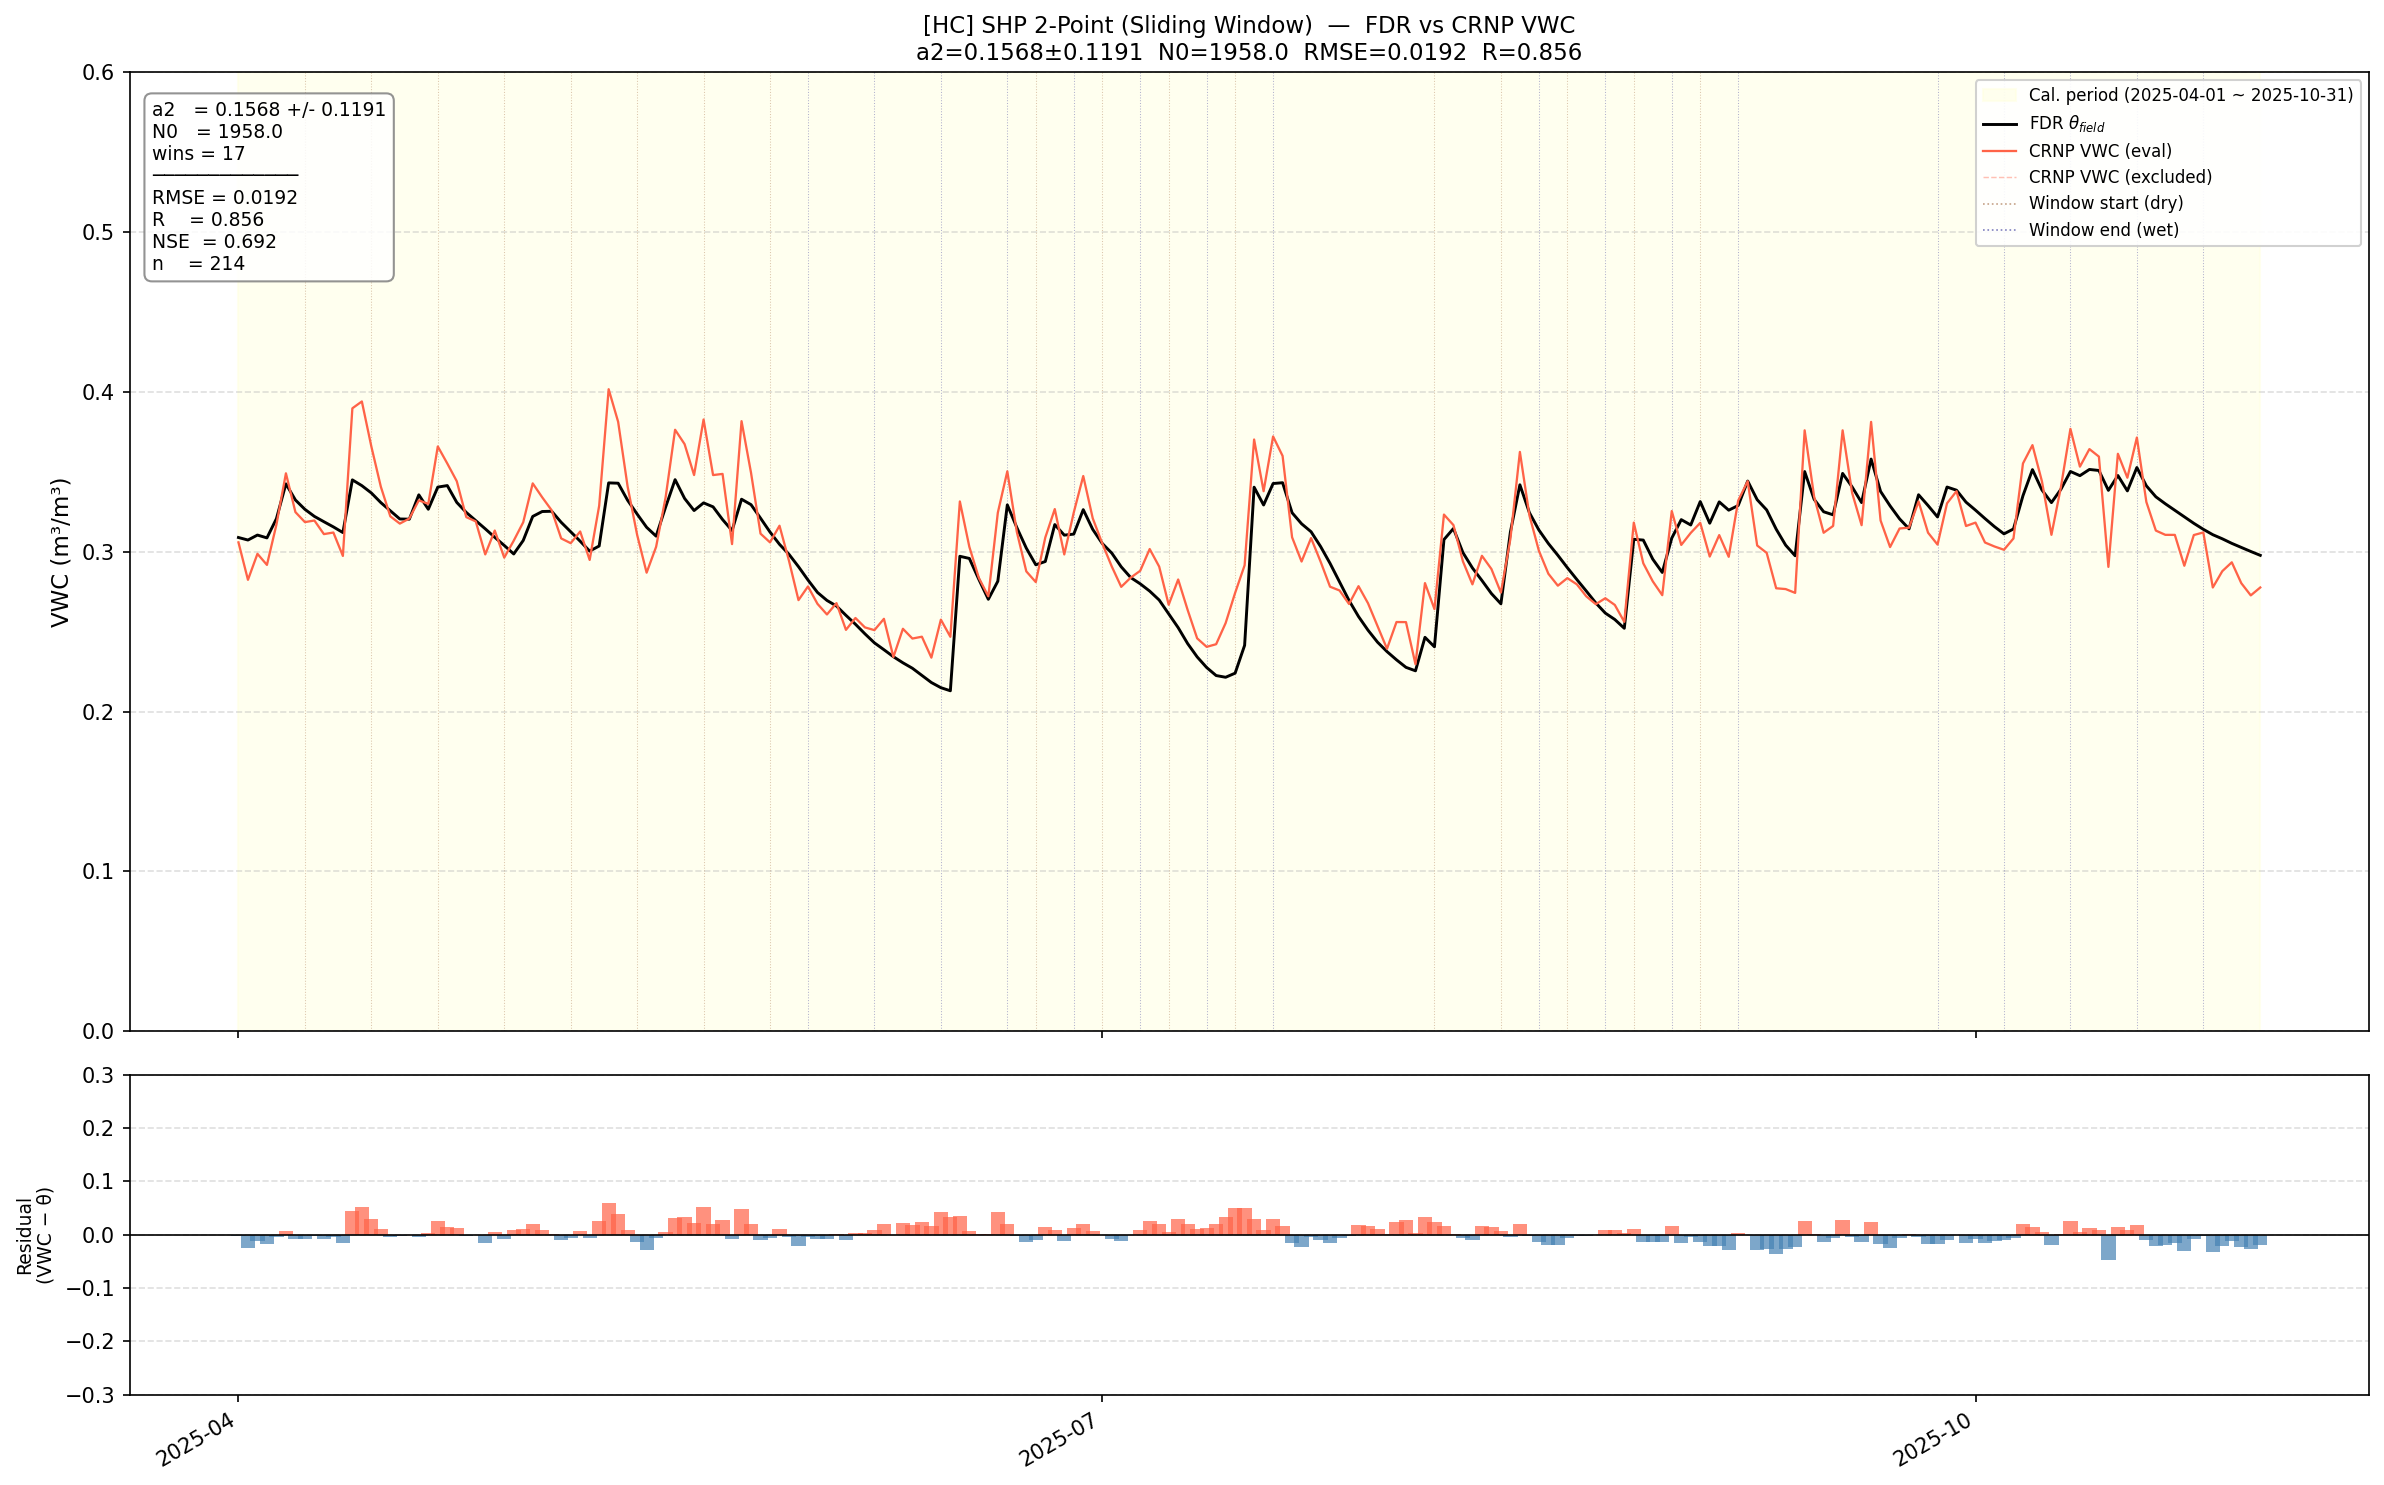
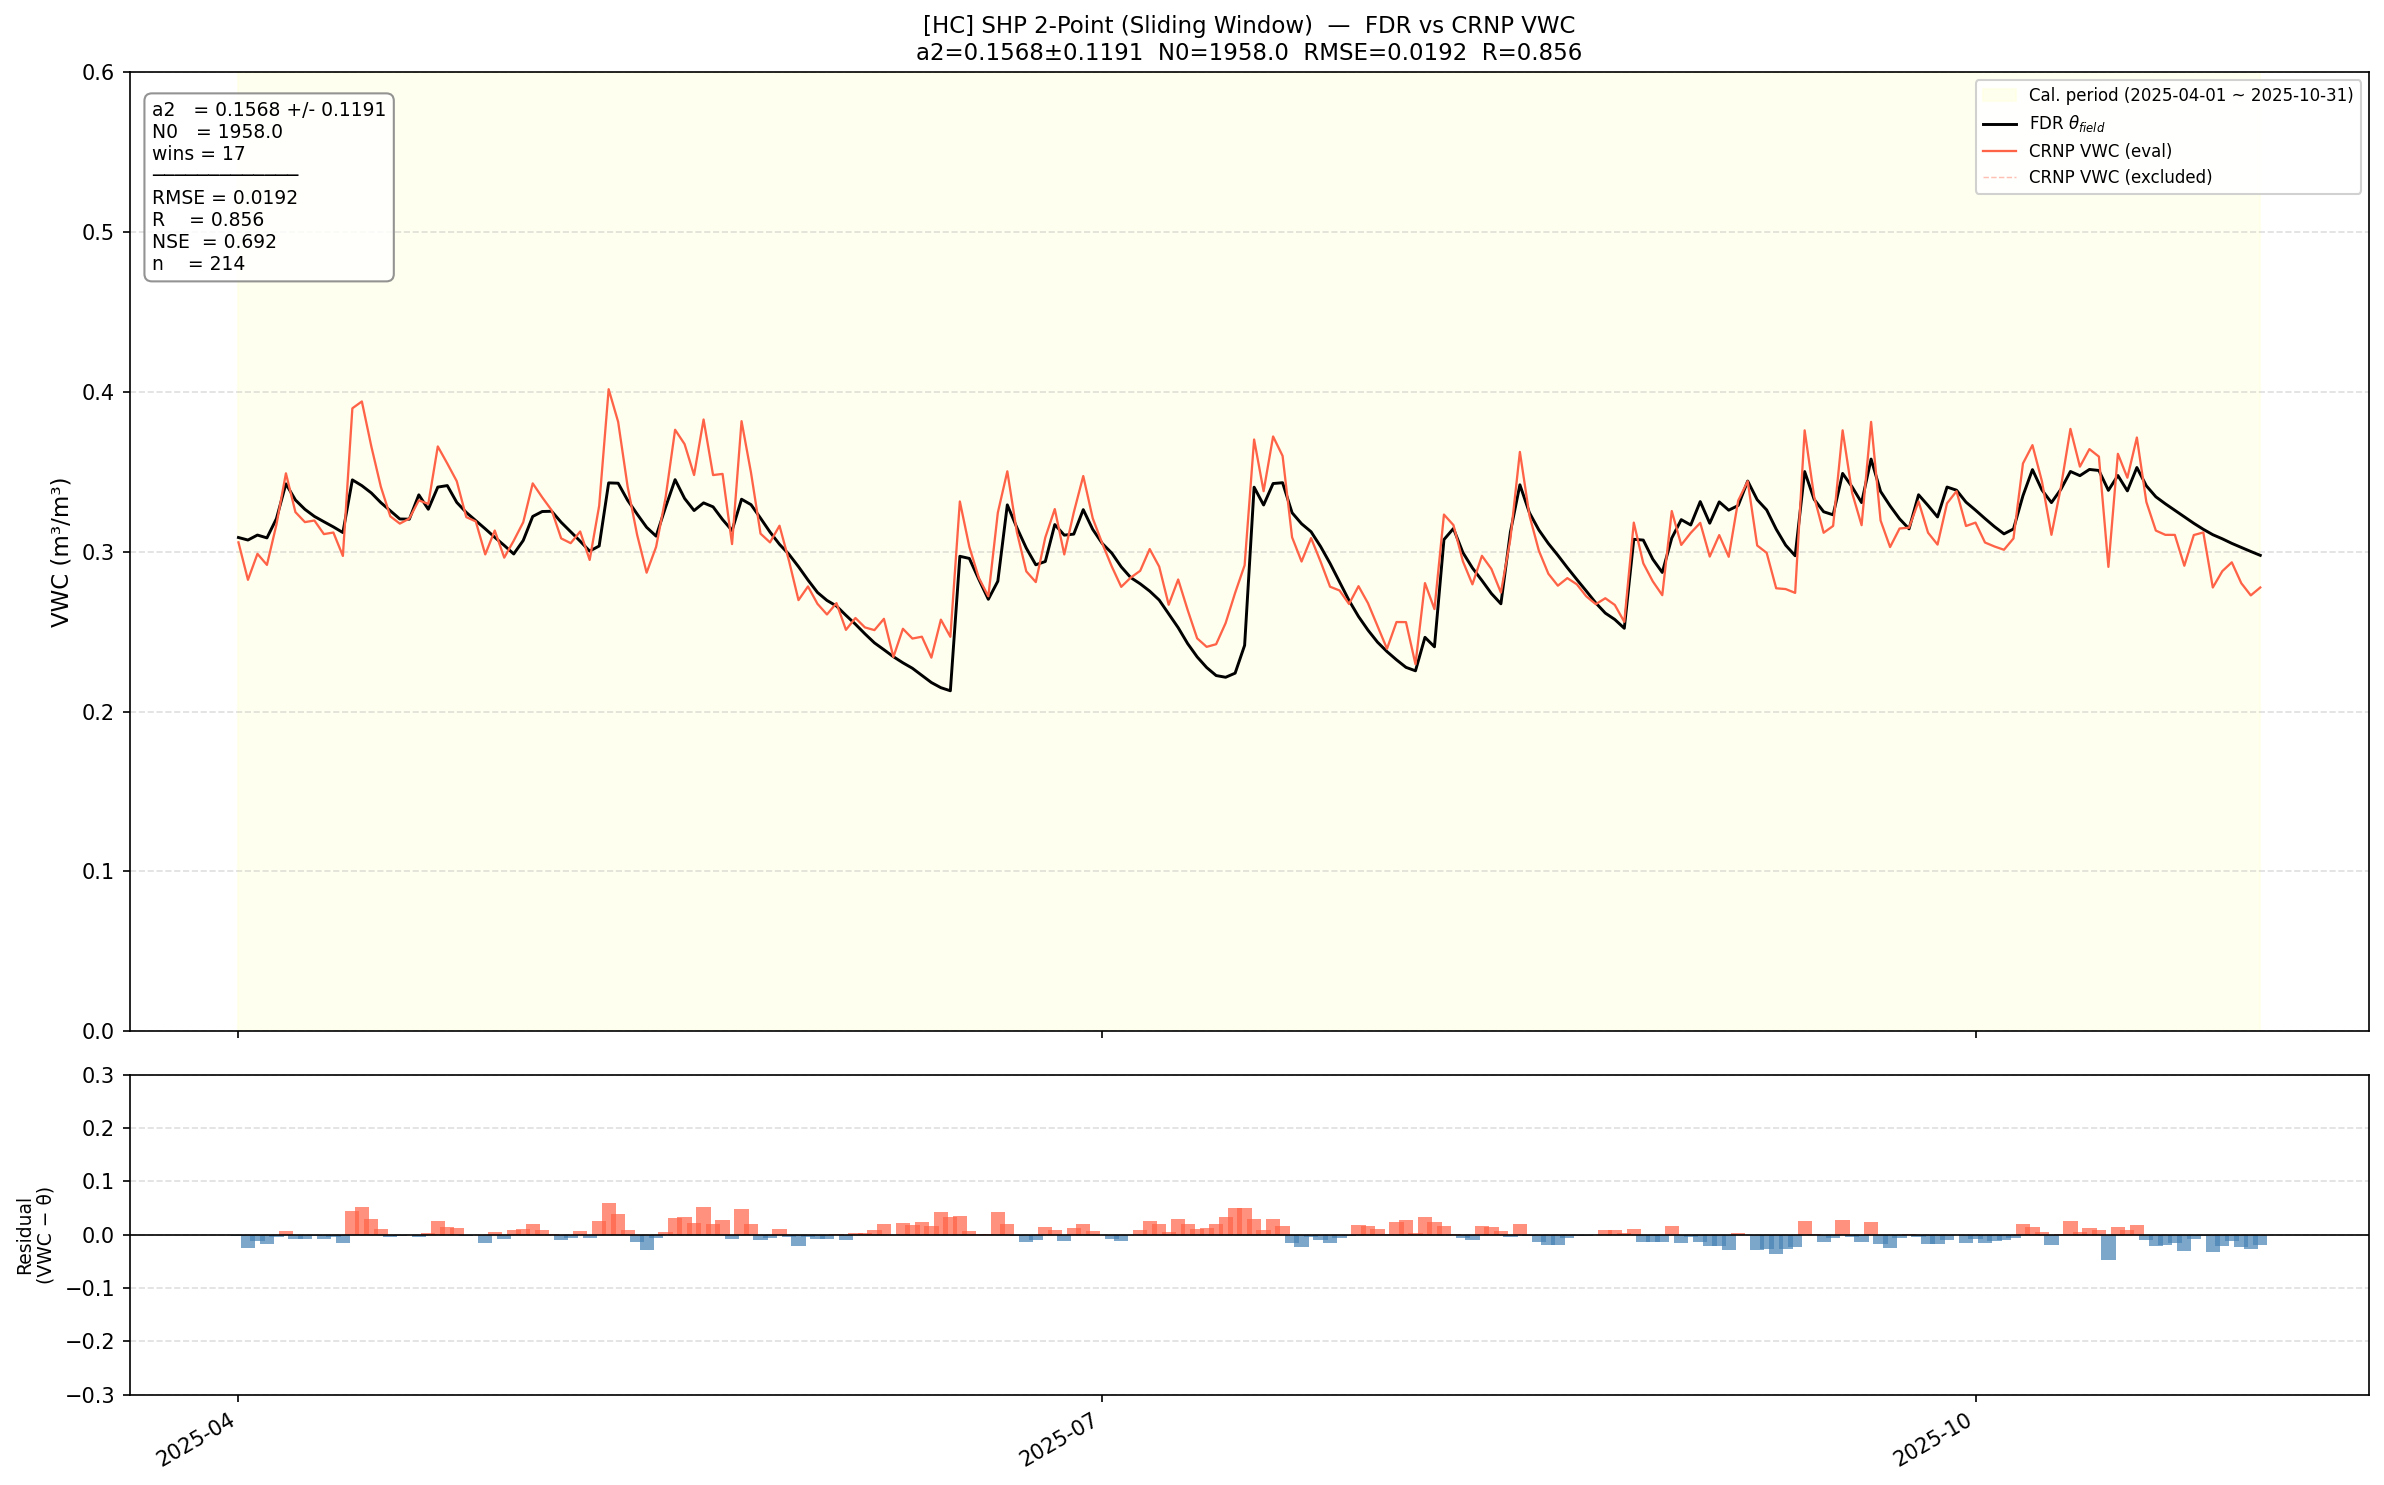
scatter commit

Changed region(s): [[0.8381, 0.1239, 0.9312, 0.1859]]

diff --git a/src/calibration/shp_2pt.py b/src/calibration/shp_2pt.py
@@ -423,20 +423,7 @@ class SHP2ptCalibrator(BaseCalibrator):
                 label="CRNP VWC (excluded)", zorder=4)
 
         # 각 슬라이딩 윈도우의 dry/wet 날짜를 연한 수직선으로 표시
-        # (모든 윈도우를 표시하면 복잡하므로 dry는 갈색, wet은 파랑 반투명)
-        wr = res.extra.get("window_results", [])
-        for r in wr:
-            if r.get("theta_dry") is not None and r.get("theta_wet") is not None:
-                ax.axvline(pd.to_datetime(r["window_start"]),
-                           color="saddlebrown", lw=0.5, ls=":", alpha=0.3, zorder=2)
-                ax.axvline(pd.to_datetime(r["window_end"]),
-                           color="navy", lw=0.5, ls=":", alpha=0.3, zorder=2)
-        # 범례용 더미 라인 (첫 번째만)
-        if wr:
-            ax.plot([], [], color="saddlebrown",
-                       lw=0.8, ls=":", alpha=0.5, label="Window start (dry)")
-            ax.plot([], [], color="navy",
-                       lw=0.8, ls=":", alpha=0.5, label="Window end (wet)")
+        # (사용자 요청으로 제거됨)
 
         a2_std = res.extra.get("a2_std", 0)
         n_wins = res.extra.get("n_windows", "?")
@@ -479,6 +466,11 @@ class SHP2ptCalibrator(BaseCalibrator):
         p1 = out_dir / "calibration_timeseries.png"
         fig.savefig(p1, dpi=150, bbox_inches="tight"); plt.close(fig)
         print(f"  📊 [1] {p1.name}")
+
+        # ══ Plot 1-2: 산점도 (Scatter) ════════════════════════════════════
+        from src.utils.plotting import plot_scatter
+        p_scat = out_dir / "calibration_scatter.png"
+        plot_scatter(res.obs, res.vwc, "shp_2pt", self.station_id, m, p_scat)
 
         # ══ Plot 2: a2 분포 (슬라이딩 윈도우 안정성) ═════════════════════
         wr = res.extra.get("window_results", [])
@@ -531,11 +523,11 @@ class SHP2ptCalibrator(BaseCalibrator):
             (res.a2, f"SHP-2pt (a2={res.a2:.4f})",  "tomato", "-"),
         ]:
             N_c = res.N0 * (a0 / (theta_r + a2_v) + a1)
-            ax3.plot(theta_r, N_c, color=col, ls=ls, lw=2.5, label=lbl)
+            ax3.plot(theta_r, N_c, color=col, ls=ls, lw=1.5, label=lbl)
 
         valid = df[df["N_corrected"].notna() & df["theta_field"].notna()]
         ax3.scatter(valid["theta_field"], valid["N_corrected"],
-                    color="steelblue", alpha=0.15, s=10, label="Observations")
+                    color="black", alpha=0.15, s=10, label="Observations")
         ax3.set_xlabel(r"$\theta_{field}$ (m³/m³)", fontsize=11)
         ax3.set_ylabel("N_corrected (counts)", fontsize=11)
         ax3.set_title(

diff --git a/src/utils/plotting.py b/src/utils/plotting.py
@@ -66,3 +66,43 @@ def format_date_axis(ax: plt.Axes, rotation: int = 45) -> None:
     ax.xaxis.set_major_locator(mdates.MonthLocator())
     ax.xaxis.set_major_formatter(mdates.DateFormatter("%Y-%m"))
     ax.tick_params(axis="x", rotation=rotation)
+
+
+def plot_scatter(obs: np.ndarray,
+                 pred: np.ndarray,
+                 method: str,
+                 station_id: str,
+                 metrics: dict,
+                 out_path: Path,
+                 dpi: int = 150) -> None:
+    """FDR vs CRNP 산점도 생성"""
+    import matplotlib.pyplot as plt
+
+    fig, ax = plt.subplots(figsize=(7, 7))
+
+    valid = np.isfinite(obs) & np.isfinite(pred)
+    o, p = obs[valid], pred[valid]
+
+    color = get_color(method)
+    ax.scatter(o, p, color=color, alpha=0.5, s=20, edgecolors="white", lw=0.5)
+
+    # 1:1 line
+    lims = [0, 0.6]
+    ax.plot(lims, lims, color="gray", ls="--", lw=1, zorder=0)
+
+    ax.set_xlim(lims)
+    ax.set_ylim(lims)
+    ax.set_aspect("equal")
+
+    ax.set_xlabel(r"FDR $\theta$ (m³/m³)", fontsize=11)
+    ax.set_ylabel(r"CRNP VWC (m³/m³)", fontsize=11)
+
+    title = f"[{station_id}] {get_label(method)} Scatter\nFDR vs CRNP Soil Moisture"
+    ax.set_title(title, fontsize=12)
+
+    # 통계치 텍스트
+    add_metrics_text(ax, metrics, method, loc="upper left")
+
+    ax.grid(ls="--", alpha=0.3)
+
+    savefig(fig, out_path, dpi=dpi)

diff --git a/src/calibration/shp_joint.py b/src/calibration/shp_joint.py
@@ -336,6 +336,12 @@ class SHPJointCalibrator(BaseCalibrator):
         fig.savefig(p1, dpi=150, bbox_inches="tight")
         plt.close(fig)
         print(f"  📊 {p1.name}")
+
+        # ── 산점도 (Scatter) ───────────────────────────────────────────
+        from src.utils.plotting import plot_scatter
+        p_scat = out_dir / f"{self.station_id}_shp_joint_calibration_scatter.png"
+        plot_scatter(res.obs, res.vwc, "shp_joint", self.station_id, m, p_scat)
+
         return p1
 
 

diff --git a/src/calibration/standard.py b/src/calibration/standard.py
@@ -359,6 +359,12 @@ class StandardCalibrator(BaseCalibrator):
         fig.savefig(p1, dpi=150, bbox_inches="tight")
         plt.close(fig)
         print(f"  📊 {p1.name}")
+
+        # ── 산점도 (Scatter) ───────────────────────────────────────────
+        from src.utils.plotting import plot_scatter
+        p_scat = out_dir / f"{self.station_id}_standard_calibration_scatter.png"
+        plot_scatter(res.obs, res.vwc, "standard", self.station_id, m, p_scat)
+
         return p1
 
 

diff --git a/src/calibration/uts.py b/src/calibration/uts.py
@@ -609,6 +609,11 @@ class UTSCalibrator(BaseCalibrator):
         plt.close(fig2)
         print(f"  📊 {p2.name}")
 
+        # ── 단일 산점도 (Scatter, best set) ──────────────────────────
+        from src.utils.plotting import plot_scatter
+        p_scat = out_dir / f"{self.station_id}_uts_calibration_scatter.png"
+        plot_scatter(res.obs, res.vwc, "uts", self.station_id, res.metrics, p_scat)
+
         return p1
 
 
